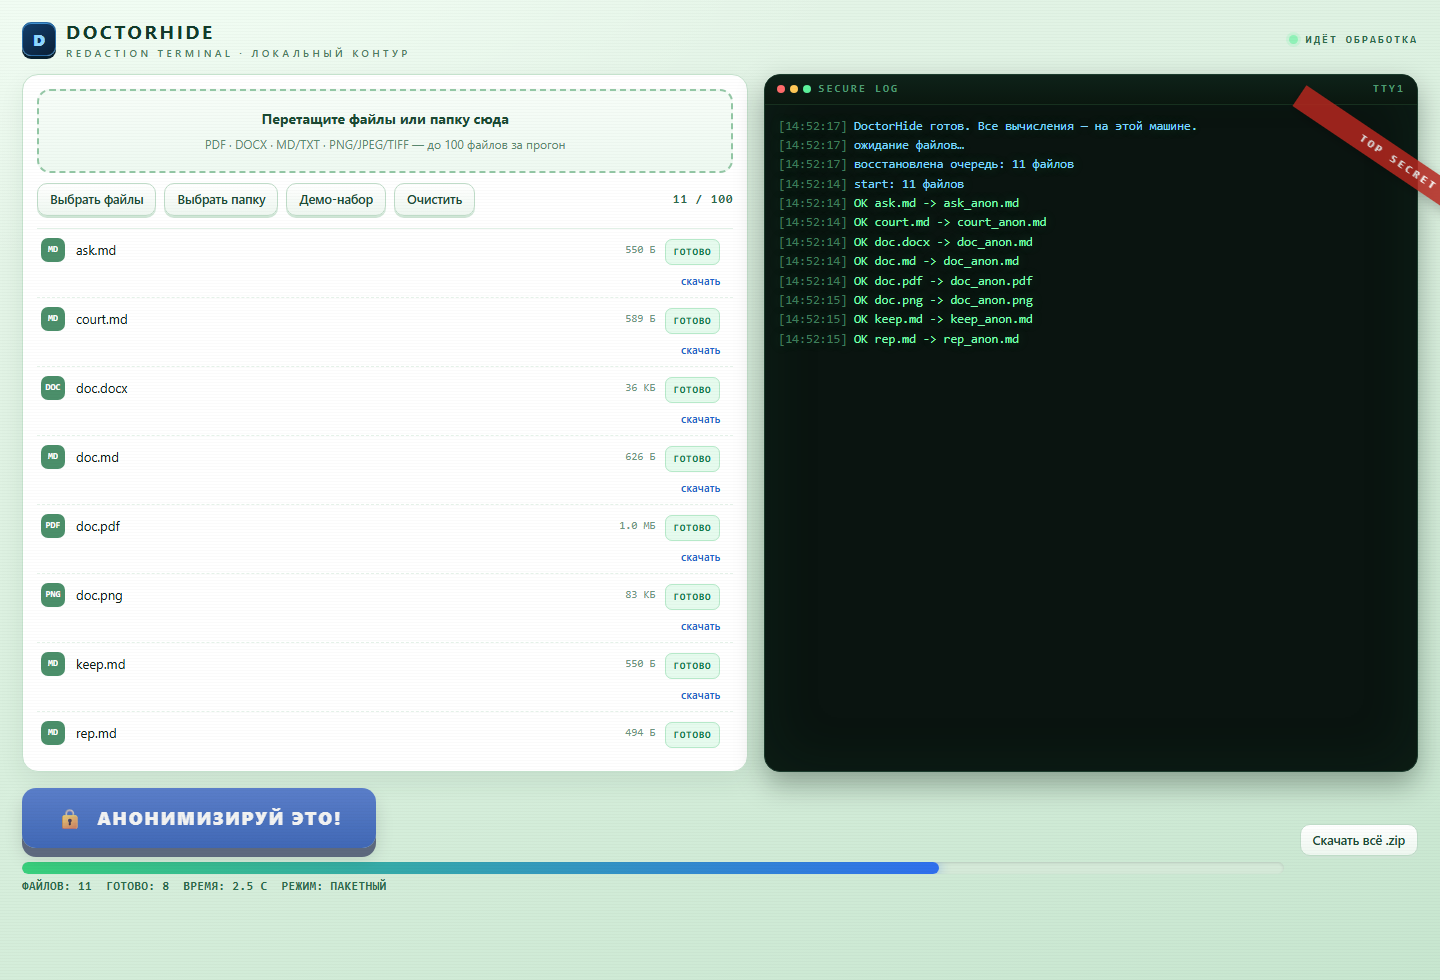
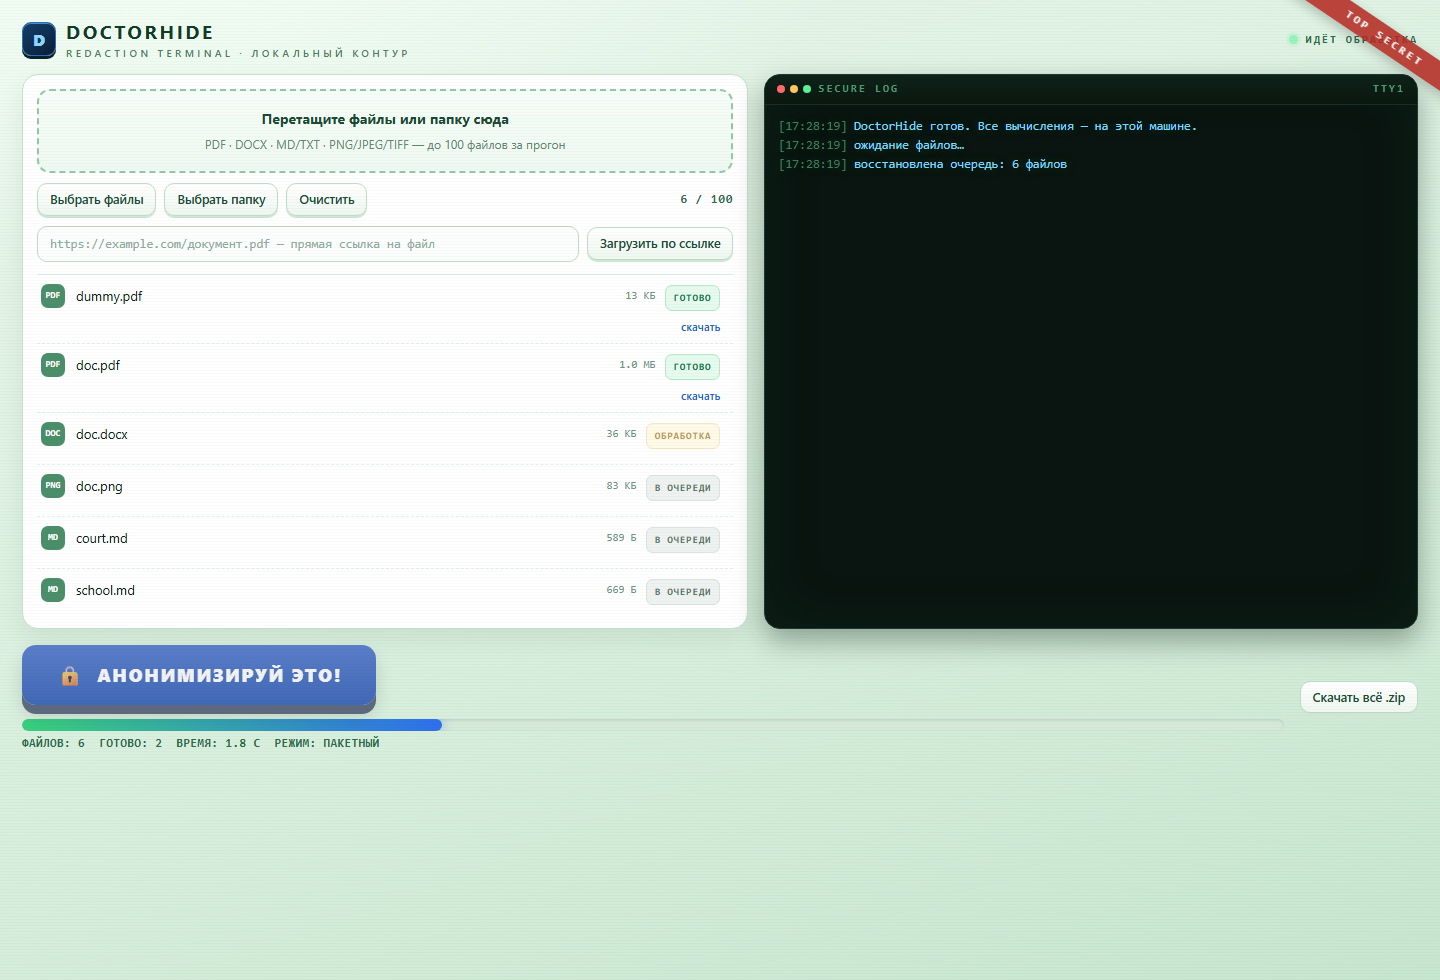
Документация и снимки интерфейса с загрузкой по ссылке
README: вместо демо-набора описана загрузка по URL с проверками адресов и лимитами. Скриншоты обновлены.

diff --git a/gui/README.md b/gui/README.md
@@ -9,20 +9,32 @@ python gui/server.py            # http://127.0.0.1:8765/
 python gui/server.py --port 9000
 ```
 
+Или двойным кликом по `Запустить DoctorHide.cmd` в корне проекта — поднимет сервер и откроет браузер.
+
 Сервер слушает только `127.0.0.1`: файлы не покидают машину, всё считается локально.
 Обработка — те же функции, что в `doctorhide.py`, никакой отдельной логики.
 
 ## Что умеет
 
 - **До 100 файлов за раз**, смешанные форматы в одной очереди: PDF, DOCX, MD/TXT, PNG/JPEG/TIFF/BMP/WEBP;
-- загрузка **файлами, папкой или перетаскиванием** (drag&drop);
+- загрузка **файлами, папкой, перетаскиванием** и **по ссылке из интернета**;
 - кнопка **«Анонимизируй это!»** запускает обработку всей очереди;
 - **живой журнал**: `start: 11 файлов`, `OK doc.pdf -> doc_anon.pdf`, ошибки красным;
 - состояние каждого файла: `в очереди` → `обработка` → `готово` / `ошибка`;
 - прогресс-бар и счётчики: файлов, готово, время;
 - скачивание результатов по одному или общим архивом `doctorhide_results.zip`;
-- очередь восстанавливается после перезагрузки страницы;
-- «Демо-набор» — кладёт в очередь тестовые файлы из `_private/_selftest`.
+- очередь восстанавливается после перезагрузки страницы.
+
+## Загрузка по ссылке
+
+Вставьте прямой URL в поле под кнопками и нажмите «Загрузить по ссылке» (или Enter).
+
+- только `http` и `https`;
+- **внутренние адреса запрещены**: `localhost`, `127.0.0.1`, частные сети — запрос отклоняется,
+  чтобы сервер нельзя было использовать как прокси во внутреннюю сеть;
+- редиректы проверяются повторно;
+- лимит размера — 200 МБ, таймаут — 30 с;
+- имя файла берётся из `Content-Disposition`, иначе из URL.
 
 ## Скриншоты
 
@@ -39,8 +51,9 @@ gui/screens/      снимки интерфейса
 _gui_work/        рабочая папка прогона (в .gitignore)
 ```
 
-Эндпойнты: `POST /api/add` (файл в очередь), `POST /api/demo`, `POST /api/run`,
-`GET /api/status`, `GET /api/log`, `GET /api/download/<id>`, `GET /api/zip`, `POST /api/clear`.
+Эндпойнты: `POST /api/add` (файл в очередь), `POST /api/url` (скачать по ссылке),
+`POST /api/run`, `GET /api/status`, `GET /api/log`, `GET /api/download/<id>`,
+`GET /api/zip`, `POST /api/clear`.
 
 ## Ограничения
 
